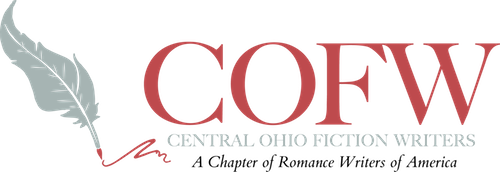
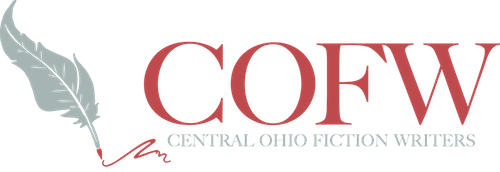
remove rwa

Changed region(s): [[0.36, 0.9012, 0.93, 1.0]]

diff --git a/public/app/views/_membership.html b/public/app/views/_membership.html
@@ -4,7 +4,7 @@
             <div class="col-lg-8 col-lg-offset-2 col-md-10 col-md-offset-1">
                 <div class="post-preview text-center clearfix">
                     <small class="dont-break-out">cofwtreasurer@gmail.com</small>
-                    <h2 class="post-title">Join Romance Writers of America&trade;<br> & Become a COFW Member!</h2>
+                    <h2 class="post-title">Become a COFW Member!</h2>
                     <p class="post-meta">Thank you for your interest!</p>
                     <div class="desc">
 
@@ -16,19 +16,19 @@
                             <p>Current Members! Use the 2018 COFW Membership button below to renew for $25. You have until 1/31/18 to receive that rate. After that date you will be considered a new member and will have to pay the increase.</p>-->
 
                             <!--January 1st-->
-                            <p>COFW is a chapter of Romance Writers of America™. Those seeking membership in COFW must be members of RWA™. Not a member? No problem! Click the Join RWA™ button below to register. After registering with RWA™, you can join COFW using the COFW Membership button below.</p><p>COFW membership year is Jan-Dec, regardless of when you join. However, if you join in November or December, your membership will also be good for the following year. Price is $30 for new members. Current members will receive a $5 discount if they renew before 1/31. After that date they will be considered a new member.</p>
+                            <p>COFW membership year is Jan-Dec, regardless of when you join. However, if you join in November or December, your membership will also be good for the following year. Price is $30 for new members. Current members will receive a $5 discount if they renew before 1/31. After that date they will be considered a new member.</p>
 
                             <!--Stays the same-->
                             <p>For questions regarding membership to COFW, please contact <a href="mailto:cofwtreasurer@gmail.com">cofwtreasurer@gmail.com</a>. Also, dues are not deductible as a charitable contribution but may qualify as a business expense.</p><p>If you have any questions about COFW before joining, please feel free to contact us.</p>
                         </div>
 
-                        <div class="row">
+                        <!-- <div class="row">
                             <div class="col-lg-12 text-center">
                                 <a class="btn btn-primary" href="https://www.rwa.org/Online/About_RWA/Become_a_Member/Online/About/Become_a_Member.aspx" target="_blank">Join RWA&trade;</a>
-                                <!--<a class="btn btn-primary" href="https://www.rwa.org/p/pr/vi/prodid=1110" target="_blank">2017 COFW Membership</a>-->
                                 <a class="btn btn-primary" href="https://cofw.rwa.org/" target="_blank">2021 COFW Membership</a>
                             </div>
-                        </div><br>
+                        </div> -->
+                        <br>
                         <div class="clearfix"></div><hr>
                         Central Ohio Fiction Writers<br>
                         P.O. Box 24254<br>

diff --git a/public/app/views/_about.html b/public/app/views/_about.html
@@ -11,9 +11,8 @@
                     <img src="/app/images/swirl.png" style="margin-left: auto; margin-right: auto; width: 150px; margin-bottom: 20px">
 
                     <div class="desc text-left">
-                        <p>Central Ohio Fiction Writers (COFW), is a local chapter of the Romance Writers of America&trade; organization, and a non-profit professional association for writers of all fiction genres. To join COFW you must be a member of RWA&trade;.</p>
+                        <p>Central Ohio Fiction Writers (COFW)is a non-profit professional association for writers of romance. We also welcome writers of all fiction genres who want to add more romance to their work.</p>
                         <p>COFW membership includes monthly meetings offering presentations by well-known authors and beneficial subject matter experts; a monthly newsletter with educational articles and member news; a website and email loop for the exchange of ideas; and an annual writing contest which includes the participation of nationally-known editors.</p>
-                        <p>In addition, as a chapter of Romance Writers of America&trade;, COFW offers members access to the many resources provided by RWA&trade;, including the national website, online courses and a monthly magazine, through which members are kept apprised of valuable up-to-date market information.</p>
                         <blockquote>Since 1987, our mission is to promote excellence in romantic fiction, helping writers to become published and establish careers in their writing field.</blockquote>
                         <p>We encourage you to explore our website for information about our upcoming meetings, special events, published authors, and the latest news concerning COFW. If you are interested in learning more about our organization, please join us at our next meeting. Or, if you're just visiting Columbus, please contact us so we can meet you in person!</p>
                         <a href="mailto:cofwpresident@gmail.com" class="readmore" title="Email COFW">Send an email to us</a>

diff --git a/public/app/app.js b/public/app/app.js
@@ -81,11 +81,13 @@ function config($stateProvider, $urlRouterProvider, $locationProvider) {
                 return memberSrv.getMembers();
             }]
         }
-    }).state('contest', {
-        url: "/contest",
-        templateUrl: "/app/views/_contest.html",
-        controller: 'contestCtrl'
-    }).state('newMember', {
+    })
+    // .state('contest', {
+    //     url: "/contest",
+    //     templateUrl: "/app/views/_contest.html",
+    //     controller: 'contestCtrl'
+    // })
+    .state('newMember', {
         url: "/member-form",
         templateUrl: "/app/views/_addMember.html",
         controller: 'newMemberCtrl'
